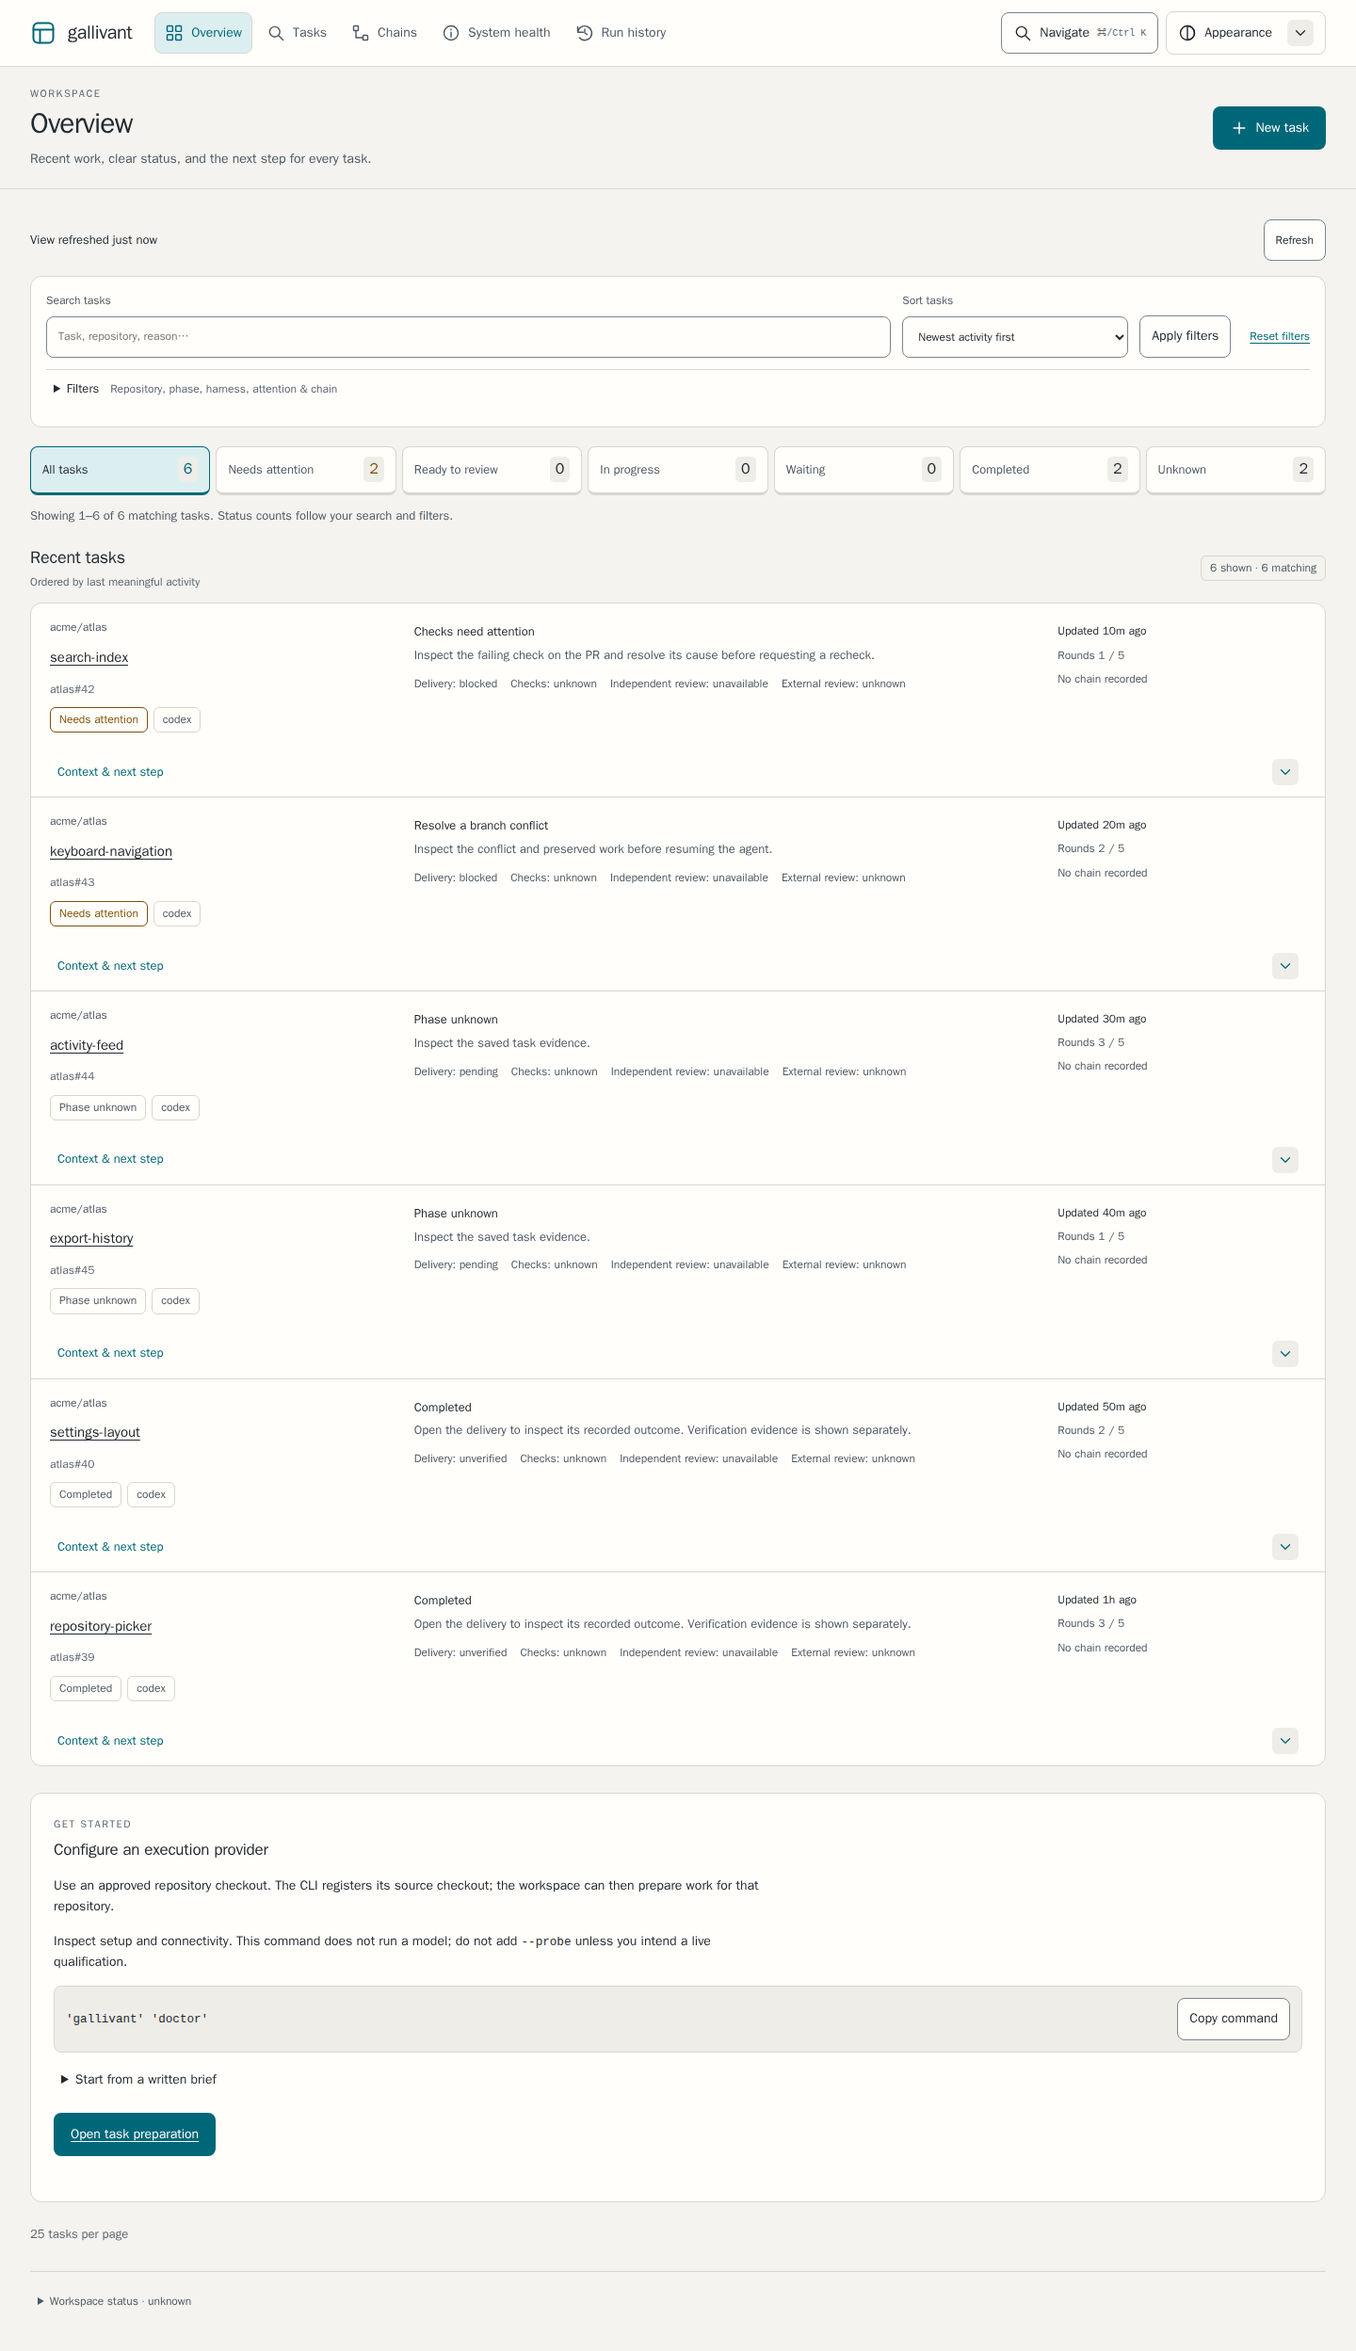
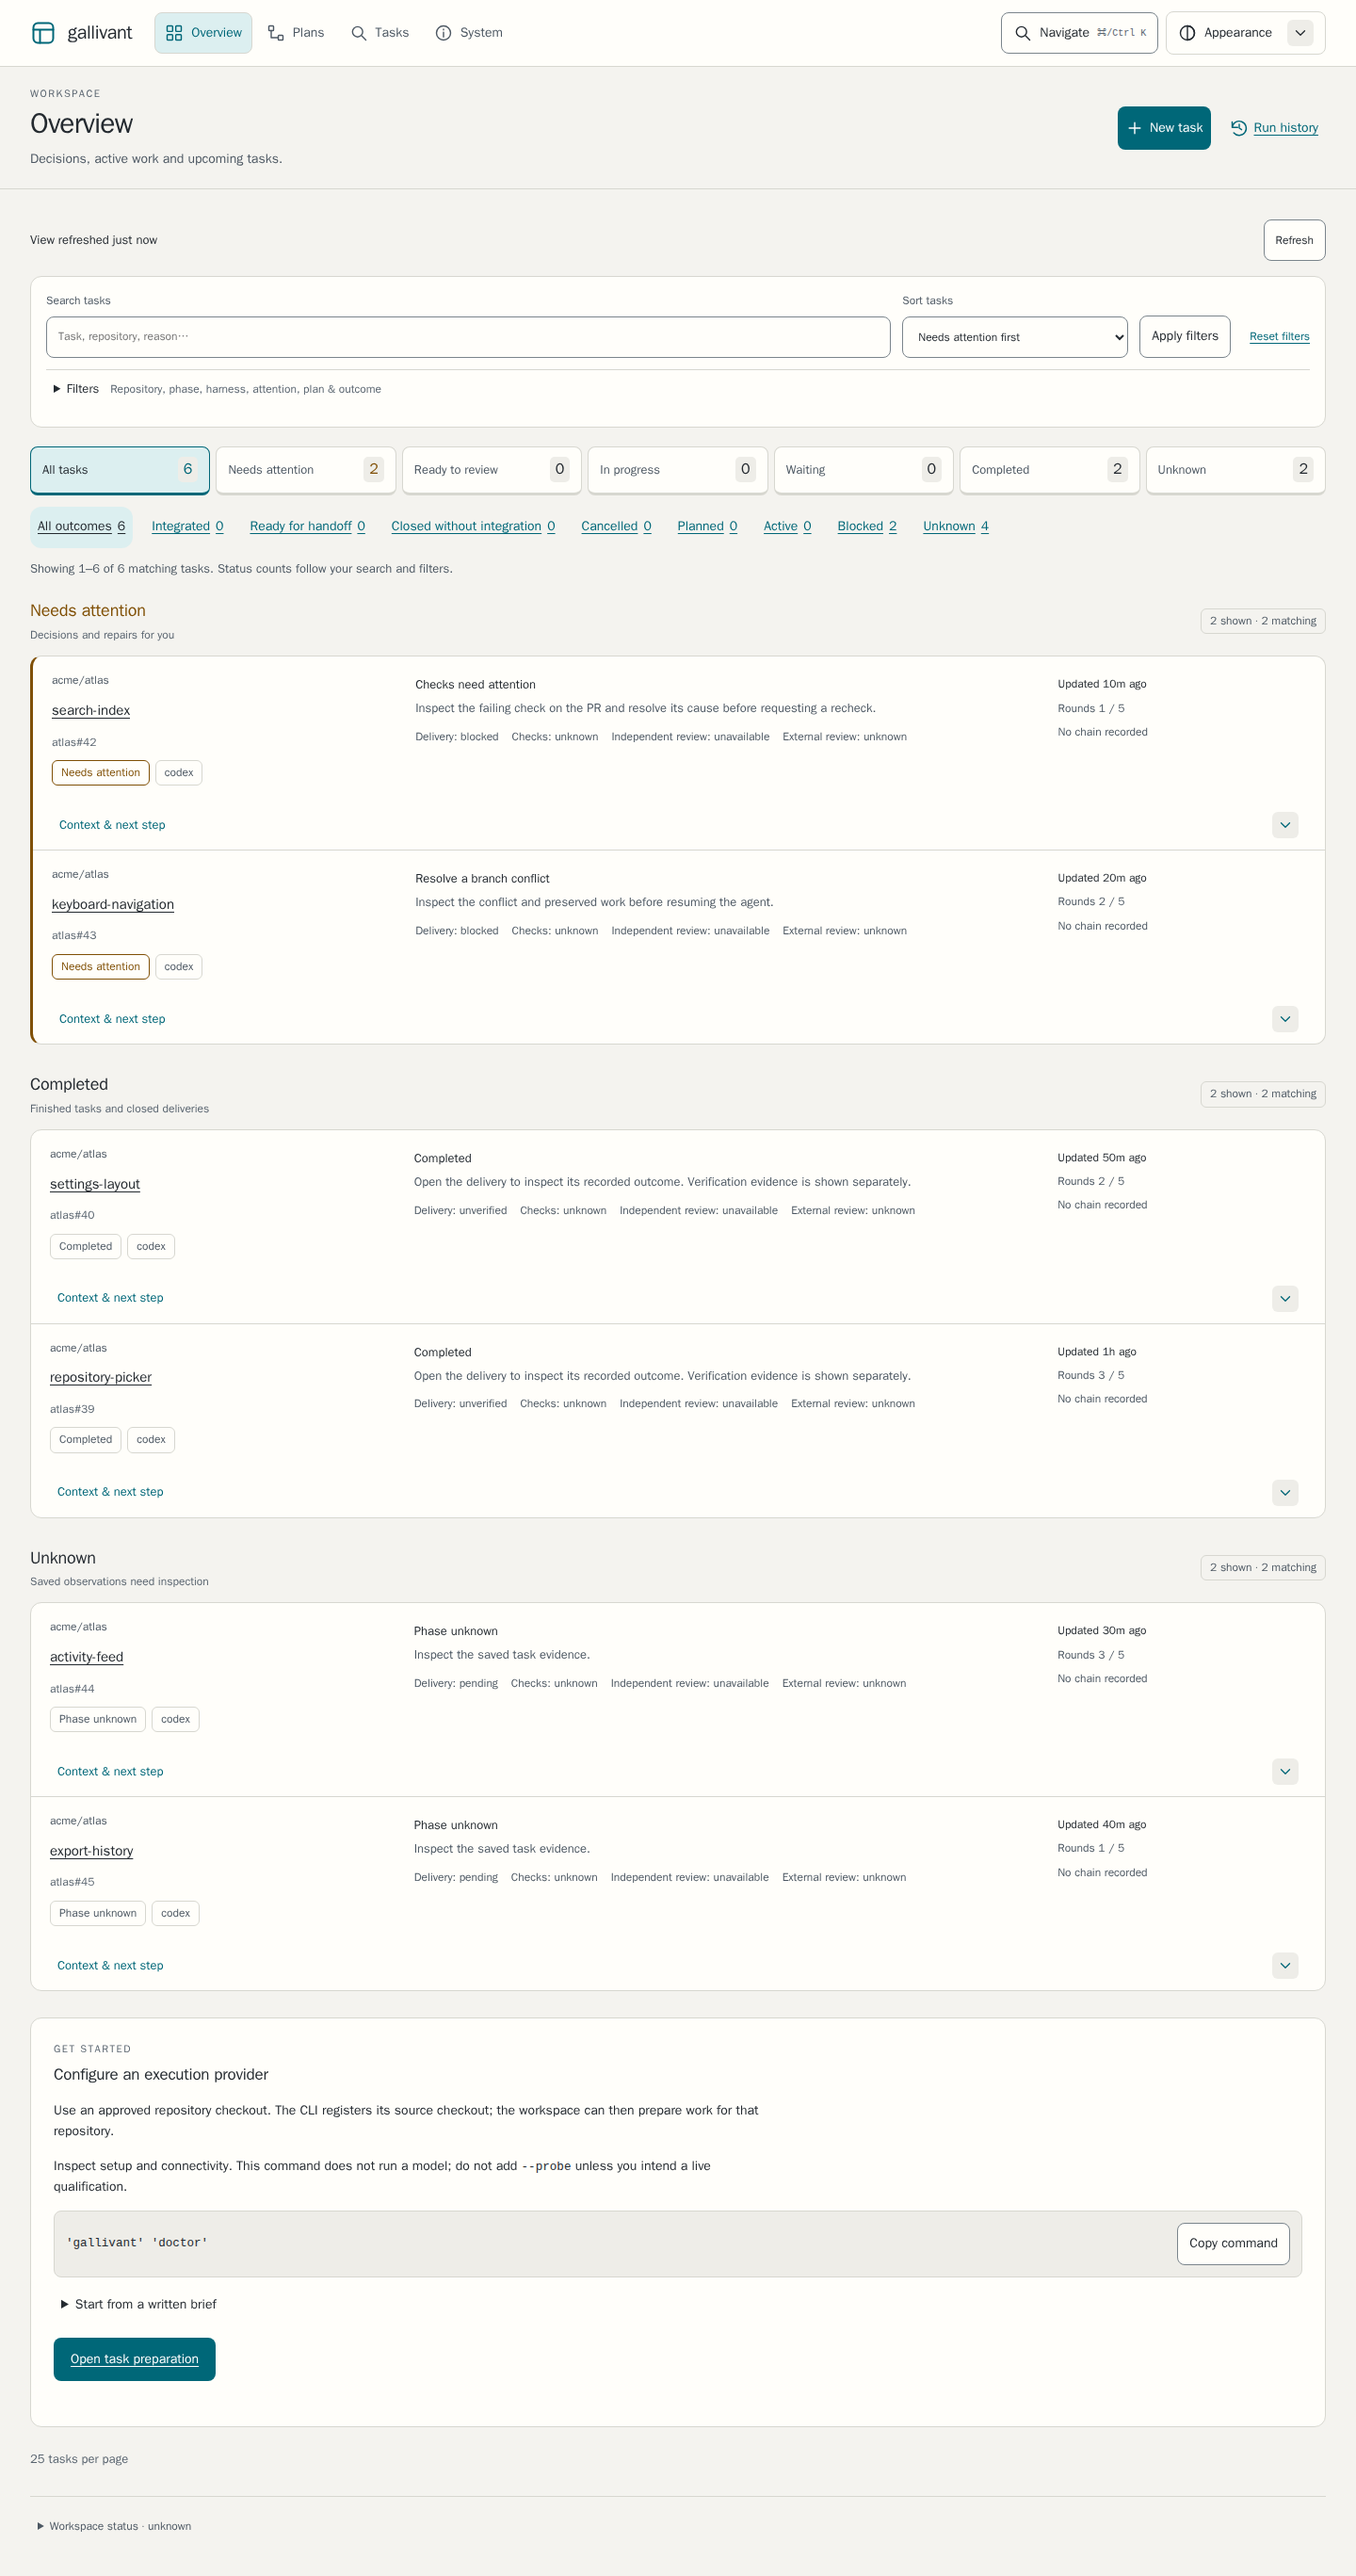
Restore legacy predecessor navigation and verify shared routes

diff --git a/README.md b/README.md
@@ -178,7 +178,7 @@ capability observations from unknown account access. **New task** prepares
 code, documentation or research for a repository pull request, asks questions,
 and requires approval of the exact revision before implementation starts.
 
-![Dark overview with attention, progress and waiting lanes](docs/ui/previews/final-overview-dark.png)
+![Dark overview with attention lanes and task outcome filters](docs/ui/previews/final-overview-dark.png)
 
 This is the real served interface with identifiable synthetic tasks and a fixed
 clock, not production activity. See the [light overview and mobile task view](docs/ui-qualification.md#approved-captures)
